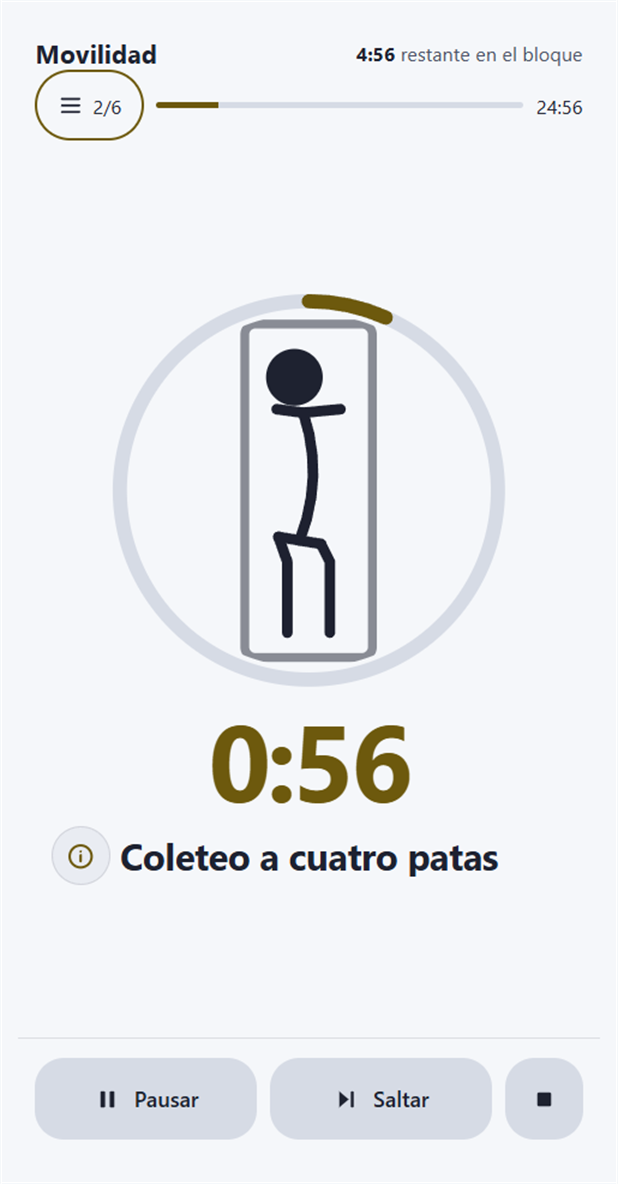
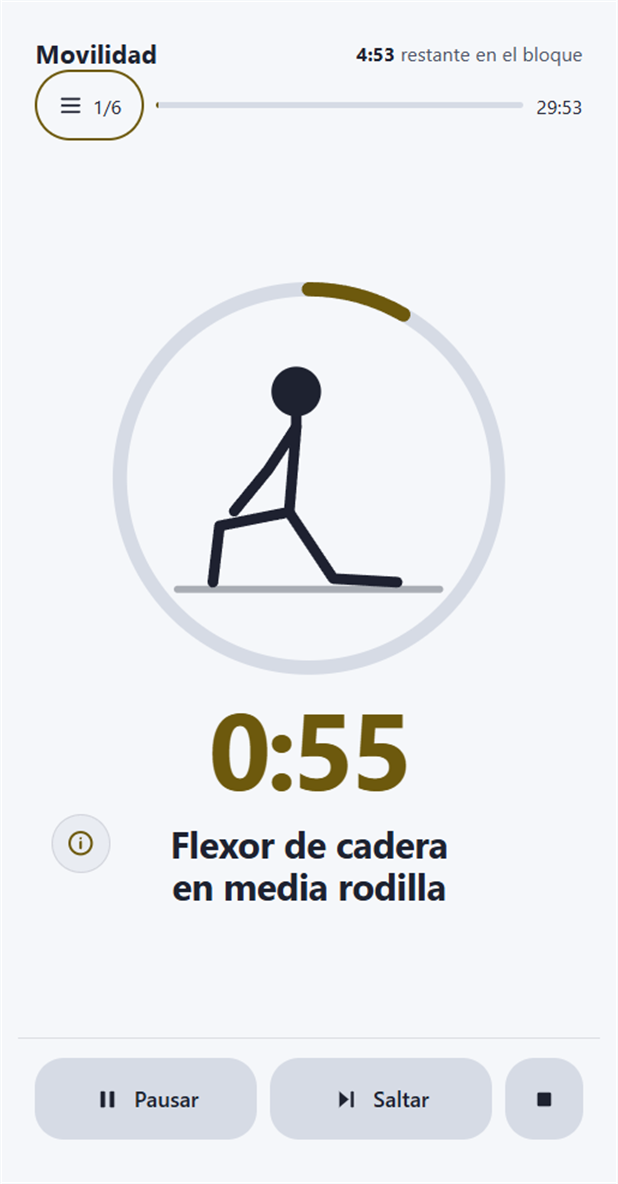
Center the workout phone pair; hip flexor for Spanish light mobility

diff --git a/site.css b/site.css
@@ -341,5 +341,5 @@ a:focus-visible, button:focus-visible, summary:focus-visible { outline: 2px soli
 
 /* Two phones in one panel: the second sits lower so they read as a sequence. */
 .shot.pair { gap: 16px; align-items: flex-start; }
-.shot.pair .phone { flex: 1 1 0; min-width: 0; max-width: 240px; }
+.shot.pair .phone { flex: 1 1 0; min-width: 0; max-width: 216px; }
 .shot.pair .second { margin-top: 56px; }
